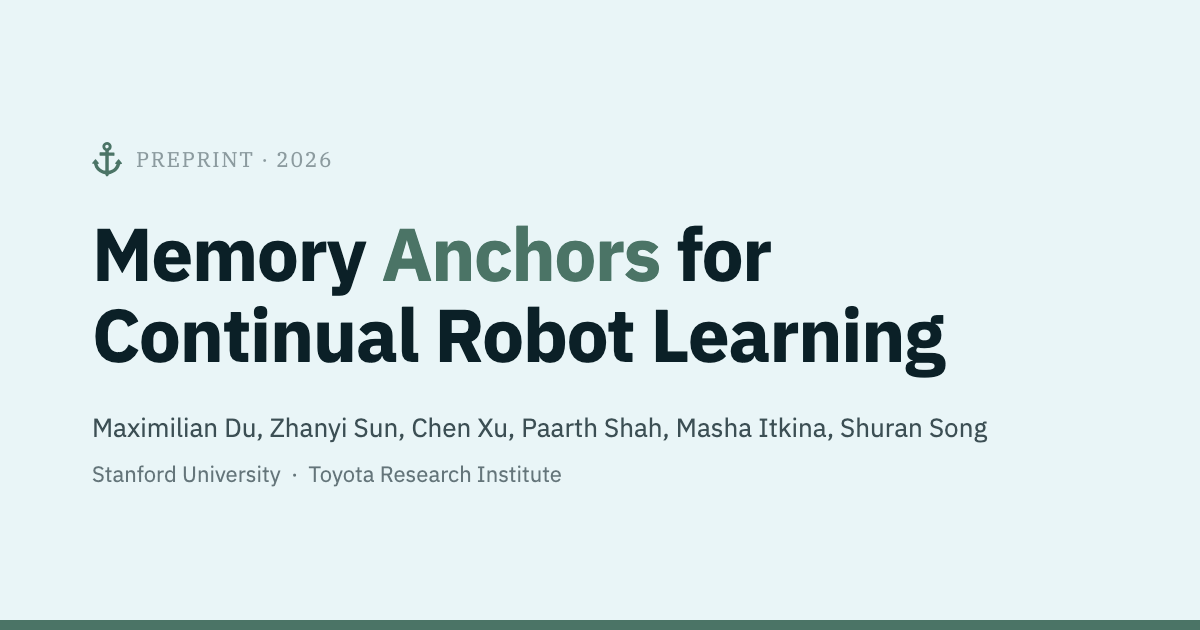
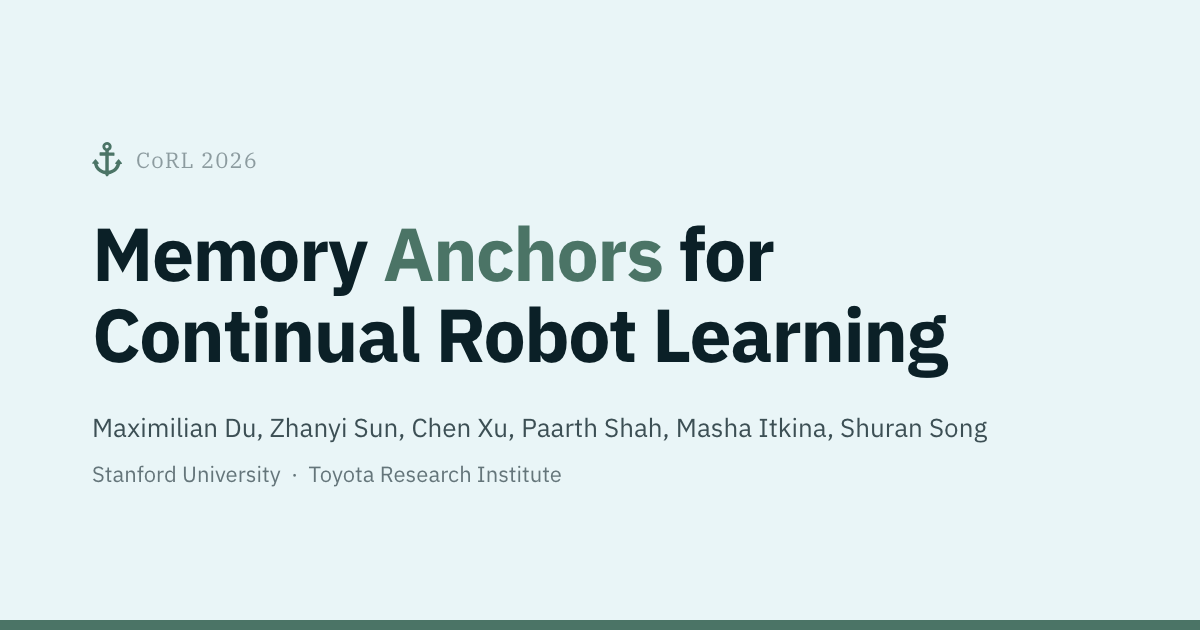
update corl acceptance

diff --git a/tools/og-image/card.html b/tools/og-image/card.html
@@ -1,0 +1,71 @@
+<!doctype html>
+<!--
+  Source for assets/og-image-vN.png — the 1200x630 social preview card.
+
+  Rendered to PNG by ./build.sh (headless Chrome screenshot). Nothing links to
+  this file from the site; it exists so the card can be regenerated instead of
+  re-drawn by hand.
+
+  The numbers below are not arbitrary: they were fitted so the rendered PNG
+  matches the original hand-made card to within a few pixels on every text
+  block. Colors are the day-theme tokens from css/style.css resolved to
+  literals (a screenshot cannot read CSS variables from another file):
+
+    #e9f5f7           --bg            page ground
+    #0b2027           --fg            title ink
+    #4b7466           --primary       accent: "Anchors", anchor glyph, base bar
+    rgba(11,32,39,.78) --fg-muted     authors
+    rgba(11,32,39,.60) --fg-dim       affiliations
+    rgba(11,32,39,.42) --fg-faint     eyebrow
+
+  If the site's palette changes, update these to match.
+
+  The eyebrow is IBM Plex Serif like .eyebrow on the page, but at 22px/.05em
+  rather than the page's 11px/.08em, and without text-transform: uppercase so
+  "CoRL" keeps its capitalization (the page does the same via .eyebrow--exact).
+
+  The anchor glyph is inlined rather than pulled from assets/anchor.svg so it
+  can take a fill color; index.html inlines the same path for the nav brand.
+-->
+<html><head><meta charset="utf-8">
+<link rel="preconnect" href="https://fonts.googleapis.com">
+<link rel="preconnect" href="https://fonts.gstatic.com" crossorigin>
+<!-- display=block, not swap: a swap would let the screenshot fire while the
+     fallback face is still showing and silently produce a wrong card -->
+<link href="https://fonts.googleapis.com/css2?family=IBM+Plex+Sans:wght@400;500;600;700&family=IBM+Plex+Serif:wght@400;500;600&display=block" rel="stylesheet">
+<style>
+  html,body{margin:0;padding:0;}
+  body{width:1200px;height:630px;background:#e9f5f7;color:#0b2027;
+       font-family:"IBM Plex Sans",sans-serif;-webkit-font-smoothing:antialiased;
+       position:relative;overflow:hidden;}
+  /* everything is absolutely positioned off a 92px left margin: the tops are
+     fitted values, so normal flow would drift them as soon as a font metric
+     changed */
+  .pad{position:absolute;left:92px;top:0;right:92px;}
+  .eyebrow{display:flex;align-items:center;gap:14px;position:absolute;top:142px;
+           font-family:"IBM Plex Serif",serif;font-size:22px;font-weight:400;
+           letter-spacing:.05em;color:rgba(11,32,39,.42);}
+  .eyebrow svg{width:30px;height:auto;fill:#4b7466;flex:none;}
+  /* nowrap: the title breaks where the <br> says it does, never where the
+     1016px content box happens to run out */
+  h1{white-space:nowrap;position:absolute;top:213px;margin:0;font-size:75px;font-weight:700;
+     line-height:81px;letter-spacing:-.02em;}
+  .mark{color:#4b7466;}
+  .authors{position:absolute;top:410px;margin:0;font-size:26px;font-weight:400;
+           color:rgba(11,32,39,.78);}
+  .affils{position:absolute;top:459px;margin:0;font-size:22px;font-weight:400;
+          color:rgba(11,32,39,.60);}
+  .bar{position:absolute;left:0;right:0;bottom:0;height:10px;background:#4b7466;}
+</style></head>
+<body>
+<div class="pad">
+  <div class="eyebrow">
+    <svg viewBox="0 0 6.16 7.1" aria-hidden="true"><path d="M3.45,2.14c.32,0,.64,0,.96,0,.2,0,.21.02.21.22,0,.1,0,.2,0,.31,0,.13-.05.19-.18.18-.29,0-.57,0-.86,0-.05,0-.09,0-.14,0v3.03c.65-.04,1.45-.62,1.6-1.38-.06,0-.11,0-.16,0-.12,0-.17-.1-.1-.19.19-.24.39-.47.59-.7.06-.07.13-.07.19,0,.19.23.39.46.58.69.08.09.02.19-.1.2-.23.02-.23.02-.3.25-.3.98-.99,1.54-1.95,1.8-.11.03-.22.04-.34.07.05.22-.13.32-.26.44-.03.03-.13.05-.16.02-.14-.12-.33-.21-.29-.45-.21-.05-.42-.09-.61-.16-.89-.33-1.5-.93-1.71-1.88-.02-.08-.05-.09-.12-.1-.09,0-.22-.01-.26-.07-.07-.1.06-.18.11-.25.14-.18.29-.35.43-.52.11-.13.16-.13.28,0,.17.2.34.4.5.61.03.04.07.13.05.17-.02.04-.1.05-.16.07-.03,0-.07,0-.11,0,.12.68.86,1.31,1.59,1.38v-3.05c-.06,0-.11,0-.16,0-.28,0-.57,0-.85,0-.13,0-.18-.05-.17-.18,0-.11,0-.22,0-.33,0-.17.03-.2.19-.2.28,0,.57,0,.85,0,.05,0,.09,0,.15,0,0-.06,0-.11,0-.16.01-.1-.02-.15-.12-.2-.38-.21-.56-.66-.45-1.07C2.29.28,2.67,0,3.11,0c.4,0,.77.29.88.68.12.39-.03.84-.38,1.04-.18.1-.2.22-.16.41ZM3.43.95c0-.2-.15-.36-.35-.36-.19,0-.35.15-.36.35,0,.2.16.37.35.37.19,0,.35-.16.35-.36Z"/></svg>
+    <span>CoRL 2026</span>
+  </div>
+  <h1>Memory <span class="mark">Anchors</span> for<br>Continual Robot Learning</h1>
+  <p class="authors">Maximilian Du, Zhanyi Sun, Chen Xu, Paarth Shah, Masha Itkina, Shuran Song</p>
+  <p class="affils">Stanford University&nbsp; &middot;&nbsp; Toyota Research Institute</p>
+</div>
+<div class="bar"></div>
+</body></html>

diff --git a/index.html b/index.html
@@ -24,7 +24,7 @@
   <meta property="og:url" content="https://robot-adaptation.github.io/MemoryAnchors/">
   <meta property="og:title" content="Memory Anchors for Continual Robot Learning">
   <meta property="og:description" content="When learning a sequence of tasks for robots, rehearsing past tasks prevents forgetting. But not all past data is created equal.">
-  <meta property="og:image" content="https://robot-adaptation.github.io/MemoryAnchors/assets/og-image.png">
+  <meta property="og:image" content="https://robot-adaptation.github.io/MemoryAnchors/assets/og-image-v2.png">
   <meta property="og:image:type" content="image/png">
   <meta property="og:image:width" content="1200">
   <meta property="og:image:height" content="630">
@@ -32,7 +32,7 @@
   <meta name="twitter:card" content="summary_large_image">
   <meta name="twitter:title" content="Memory Anchors for Continual Robot Learning">
   <meta name="twitter:description" content="When learning a sequence of tasks for robots, rehearsing past tasks prevents forgetting. But not all past data is created equal.">
-  <meta name="twitter:image" content="https://robot-adaptation.github.io/MemoryAnchors/assets/og-image.png">
+  <meta name="twitter:image" content="https://robot-adaptation.github.io/MemoryAnchors/assets/og-image-v2.png">
   <title>MemoryAnchors</title>
   <link rel="preconnect" href="https://fonts.googleapis.com">
   <link rel="preconnect" href="https://fonts.gstatic.com" crossorigin>
@@ -105,7 +105,7 @@
   <main id="top">
     <header class="hero" id="overview">
       <div class="wrap wrap--mid">
-        <p class="eyebrow">Preprint &middot; 2026</p>
+        <p class="eyebrow eyebrow--exact">CoRL 2026</p>
         <h1 class="hero__title">Memory <span class="mark">Anchors</span> for Continual Robot Learning</h1>
         <p class="authors">
           Maximilian Du<sup>1</sup><span class="sep">, </span>Zhanyi Sun<sup>1</sup><span class="sep">, </span>Chen Xu<sup>2</sup><span class="sep">, </span>Paarth Shah<sup>2</sup><span class="sep">, </span>Masha Itkina<sup>2</sup><span class="sep">, </span>Shuran Song<sup>1</sup>

diff --git a/css/style.css b/css/style.css
@@ -145,6 +145,9 @@ section[id], .hero[id] { scroll-margin-top: 80px; }
   font-size: var(--fs-meta); letter-spacing: var(--ls-meta); text-transform: uppercase;
   color: var(--fg-faint); margin-bottom: 16px;
 }
+/* for eyebrows whose text carries meaningful capitalization (e.g. "CoRL"),
+   which the blanket uppercase above would flatten */
+.eyebrow--exact { text-transform: none; }
 
 /* ==========================================================================
    nav
